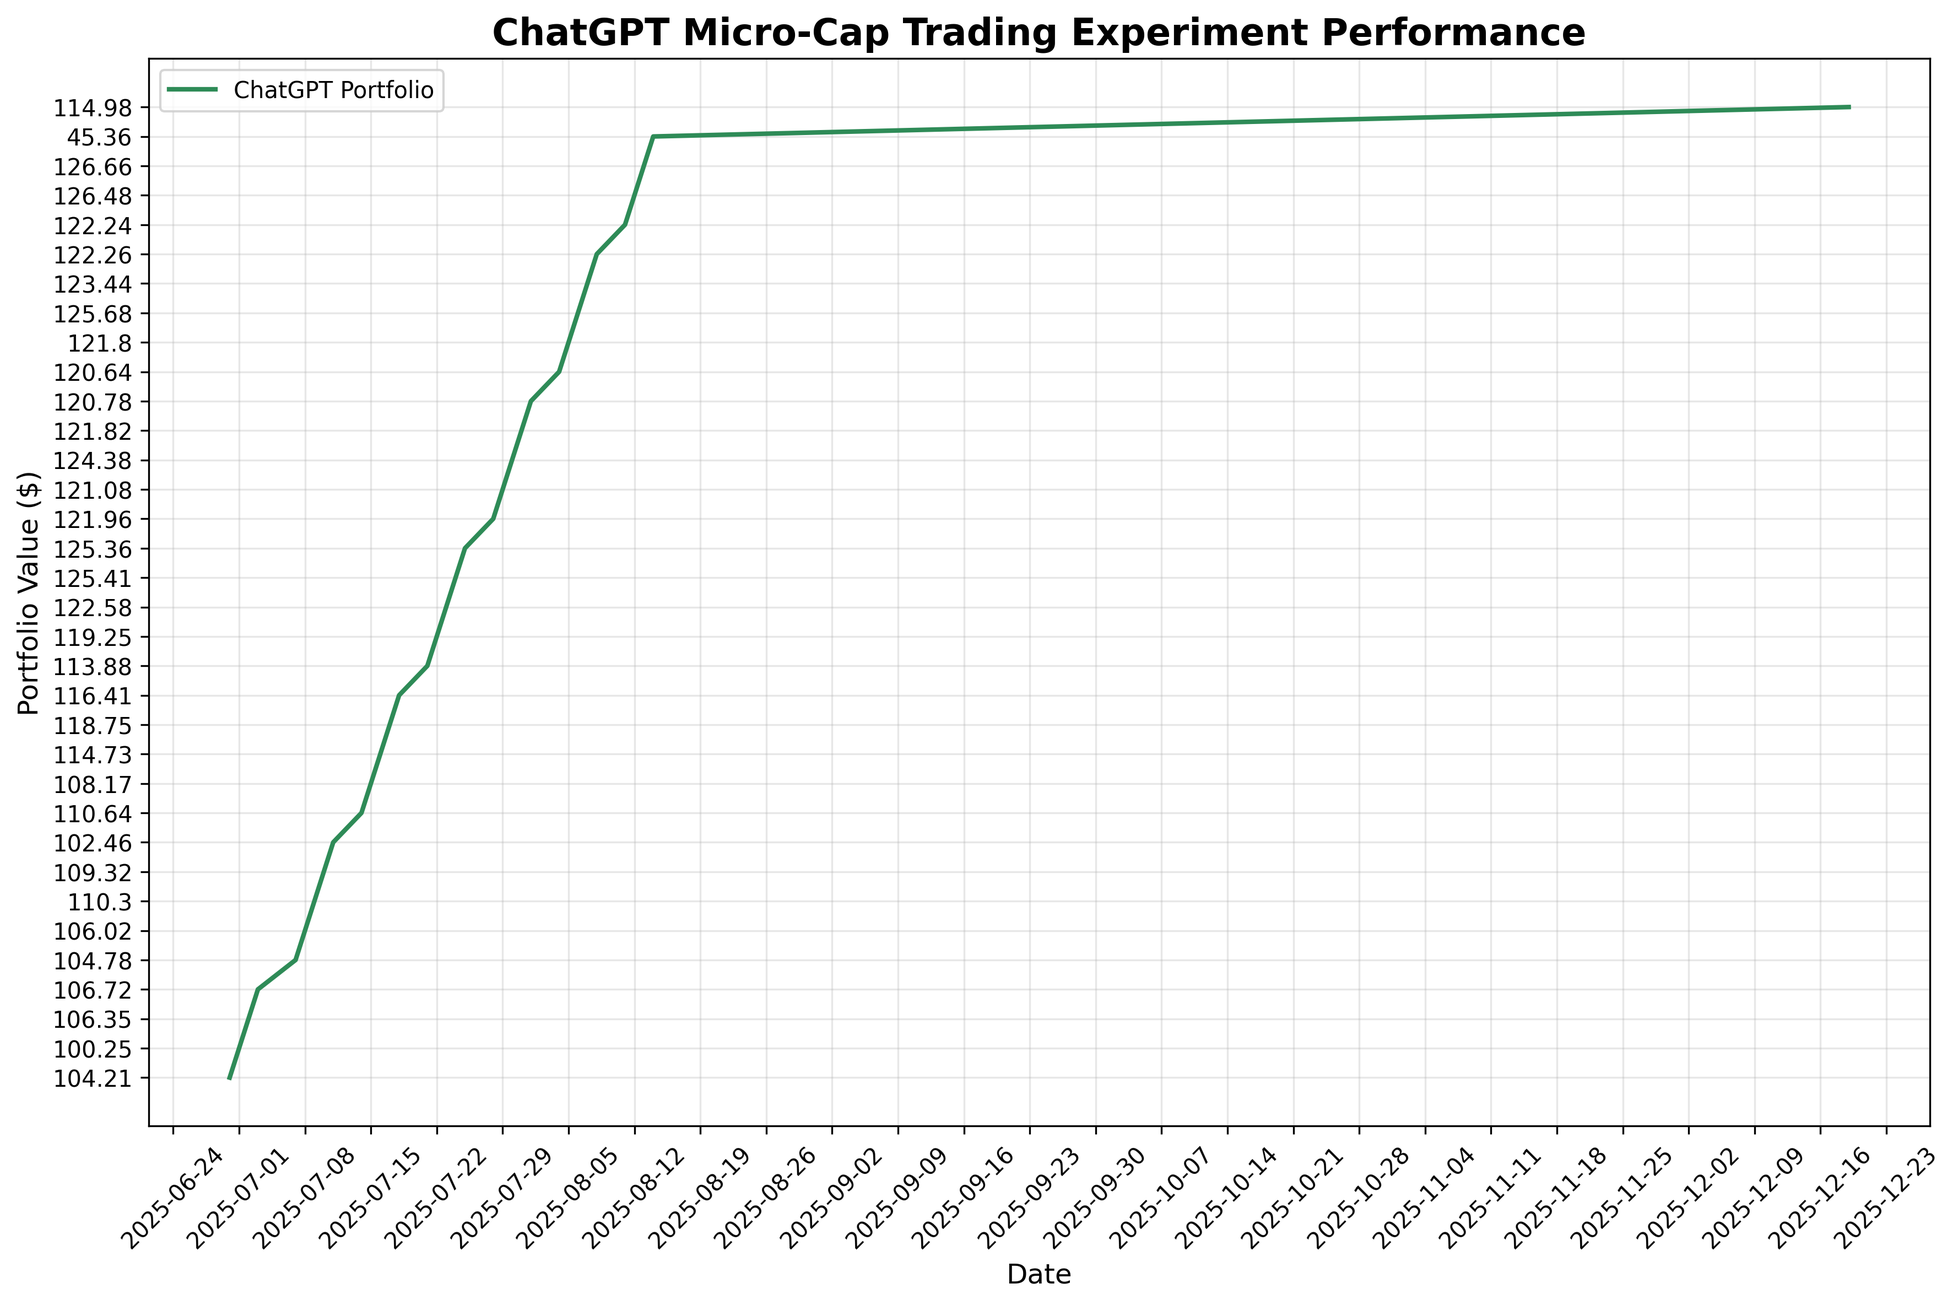
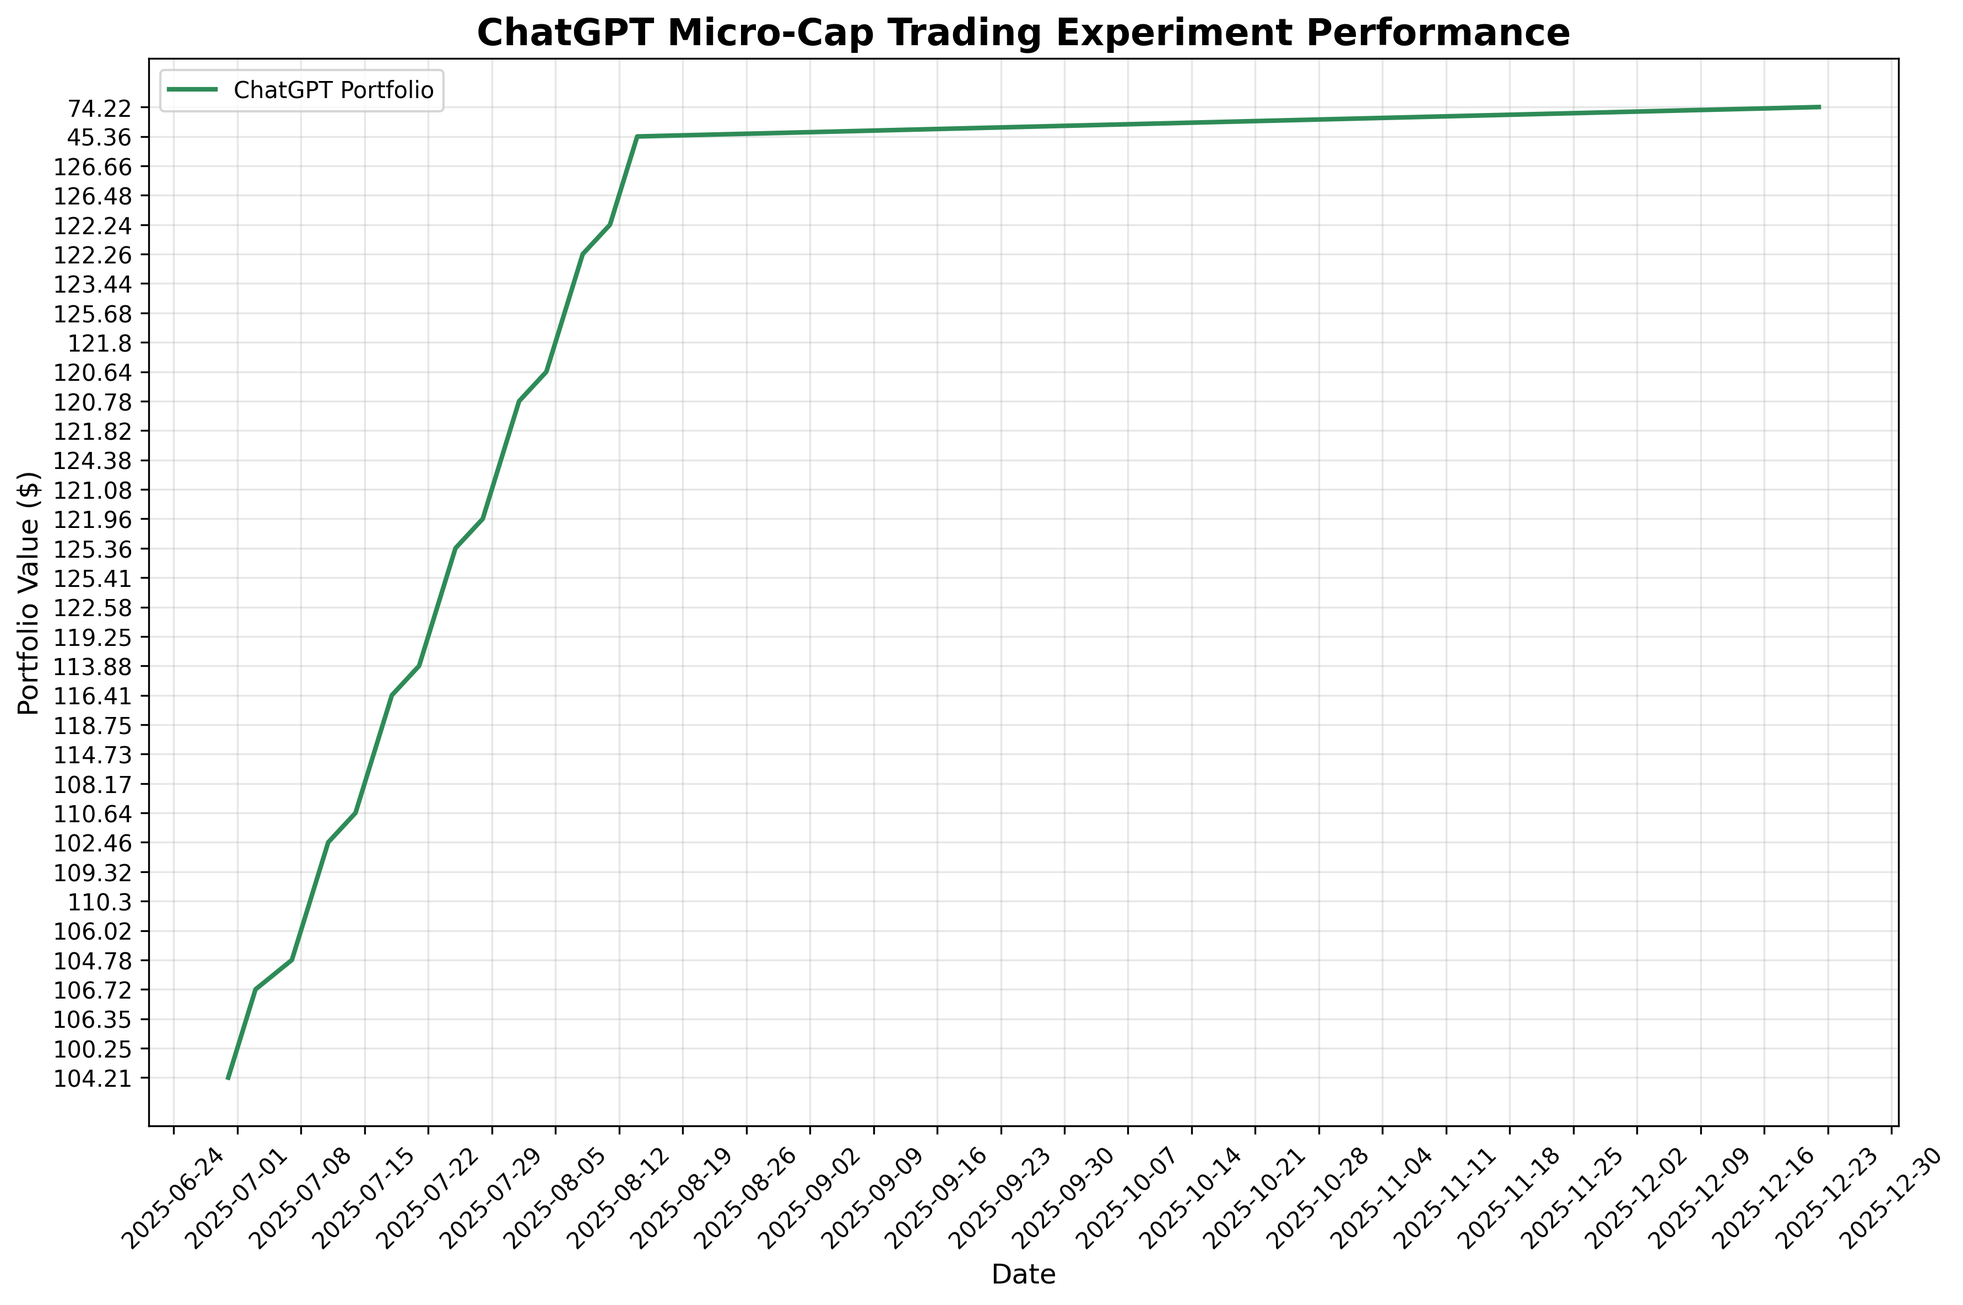
deploy: e15cad030d70fb3fbb51f9df6e22fa70c2f175c0

diff --git a/index.html b/index.html
@@ -105,7 +105,7 @@
                 <div class="stat-label">Total Trades</div>
             </div>
             <div class="stat-card">
-                <div class="stat-value" id="last-updated">2025-12-19</div>
+                <div class="stat-value" id="last-updated">2025-12-22</div>
                 <div class="stat-label">Last Updated</div>
             </div>
         </div>
@@ -160,7 +160,7 @@
     
     <script>
         // Portfolio data
-        const portfolioData = JSON.parse("[{&quot;Date&quot;: &quot;2025-08-11&quot;, &quot;Ticker&quot;: &quot;ABEO&quot;, &quot;Shares&quot;: 4.0, &quot;Buy Price&quot;: 5.77, &quot;Cost Basis&quot;: 23.08, &quot;Stop Loss&quot;: 4.9, &quot;Current Price&quot;: 6.28, &quot;Total Value&quot;: 25.12, &quot;PnL&quot;: 2.04, &quot;Action&quot;: &quot;HOLD&quot;, &quot;Cash Balance&quot;: NaN, &quot;Total Equity&quot;: NaN}, {&quot;Date&quot;: &quot;2025-08-11&quot;, &quot;Ticker&quot;: &quot;ACTU&quot;, &quot;Shares&quot;: 6.0, &quot;Buy Price&quot;: 5.75, &quot;Cost Basis&quot;: 34.5, &quot;Stop Loss&quot;: 4.89, &quot;Current Price&quot;: 8.01, &quot;Total Value&quot;: 48.06, &quot;PnL&quot;: 13.56, &quot;Action&quot;: &quot;HOLD&quot;, &quot;Cash Balance&quot;: NaN, &quot;Total Equity&quot;: NaN}, {&quot;Date&quot;: &quot;2025-08-11&quot;, &quot;Ticker&quot;: &quot;ESPR&quot;, &quot;Shares&quot;: 2.0, &quot;Buy Price&quot;: 1.91, &quot;Cost Basis&quot;: 3.82, &quot;Stop Loss&quot;: 1.6, &quot;Current Price&quot;: 1.85, &quot;Total Value&quot;: 3.7, &quot;PnL&quot;: -0.12, &quot;Action&quot;: &quot;HOLD&quot;, &quot;Cash Balance&quot;: NaN, &quot;Total Equity&quot;: NaN}, {&quot;Date&quot;: &quot;2025-08-11&quot;, &quot;Ticker&quot;: &quot;TOTAL&quot;, &quot;Shares&quot;: NaN, &quot;Buy Price&quot;: NaN, &quot;Cost Basis&quot;: NaN, &quot;Stop Loss&quot;: NaN, &quot;Current Price&quot;: NaN, &quot;Total Value&quot;: 76.88, &quot;PnL&quot;: 15.48, &quot;Action&quot;: NaN, &quot;Cash Balance&quot;: 45.36, &quot;Total Equity&quot;: &quot;122.24&quot;}, {&quot;Date&quot;: &quot;2025-08-12&quot;, &quot;Ticker&quot;: &quot;ABEO&quot;, &quot;Shares&quot;: 4.0, &quot;Buy Price&quot;: 5.77, &quot;Cost Basis&quot;: 23.08, &quot;Stop Loss&quot;: 4.9, &quot;Current Price&quot;: 6.38, &quot;Total Value&quot;: 25.52, &quot;PnL&quot;: 2.44, &quot;Action&quot;: &quot;HOLD&quot;, &quot;Cash Balance&quot;: NaN, &quot;Total Equity&quot;: NaN}, {&quot;Date&quot;: &quot;2025-08-12&quot;, &quot;Ticker&quot;: &quot;ACTU&quot;, &quot;Shares&quot;: 6.0, &quot;Buy Price&quot;: 5.75, &quot;Cost Basis&quot;: 34.5, &quot;Stop Loss&quot;: 4.89, &quot;Current Price&quot;: 8.67, &quot;Total Value&quot;: 52.02, &quot;PnL&quot;: 17.52, &quot;Action&quot;: &quot;HOLD&quot;, &quot;Cash Balance&quot;: NaN, &quot;Total Equity&quot;: NaN}, {&quot;Date&quot;: &quot;2025-08-12&quot;, &quot;Ticker&quot;: &quot;ESPR&quot;, &quot;Shares&quot;: 2.0, &quot;Buy Price&quot;: 1.91, &quot;Cost Basis&quot;: 3.82, &quot;Stop Loss&quot;: 1.6, &quot;Current Price&quot;: 1.79, &quot;Total Value&quot;: 3.58, &quot;PnL&quot;: -0.24, &quot;Action&quot;: &quot;HOLD&quot;, &quot;Cash Balance&quot;: NaN, &quot;Total Equity&quot;: NaN}, {&quot;Date&quot;: &quot;2025-08-12&quot;, &quot;Ticker&quot;: &quot;TOTAL&quot;, &quot;Shares&quot;: NaN, &quot;Buy Price&quot;: NaN, &quot;Cost Basis&quot;: NaN, &quot;Stop Loss&quot;: NaN, &quot;Current Price&quot;: NaN, &quot;Total Value&quot;: 81.12, &quot;PnL&quot;: 19.72, &quot;Action&quot;: NaN, &quot;Cash Balance&quot;: 45.36, &quot;Total Equity&quot;: &quot;126.48&quot;}, {&quot;Date&quot;: &quot;2025-08-13&quot;, &quot;Ticker&quot;: &quot;ABEO&quot;, &quot;Shares&quot;: 4.0, &quot;Buy Price&quot;: 5.77, &quot;Cost Basis&quot;: 23.08, &quot;Stop Loss&quot;: 4.9, &quot;Current Price&quot;: 6.56, &quot;Total Value&quot;: 26.24, &quot;PnL&quot;: 3.16, &quot;Action&quot;: &quot;HOLD&quot;, &quot;Cash Balance&quot;: NaN, &quot;Total Equity&quot;: NaN}, {&quot;Date&quot;: &quot;2025-08-13&quot;, &quot;Ticker&quot;: &quot;ACTU&quot;, &quot;Shares&quot;: 6.0, &quot;Buy Price&quot;: 5.75, &quot;Cost Basis&quot;: 34.5, &quot;Stop Loss&quot;: 4.89, &quot;Current Price&quot;: 8.53, &quot;Total Value&quot;: 51.18, &quot;PnL&quot;: 16.68, &quot;Action&quot;: &quot;HOLD&quot;, &quot;Cash Balance&quot;: NaN, &quot;Total Equity&quot;: NaN}, {&quot;Date&quot;: &quot;2025-08-13&quot;, &quot;Ticker&quot;: &quot;ESPR&quot;, &quot;Shares&quot;: 2.0, &quot;Buy Price&quot;: 1.91, &quot;Cost Basis&quot;: 3.82, &quot;Stop Loss&quot;: 1.6, &quot;Current Price&quot;: 1.94, &quot;Total Value&quot;: 3.88, &quot;PnL&quot;: 0.06, &quot;Action&quot;: &quot;HOLD&quot;, &quot;Cash Balance&quot;: NaN, &quot;Total Equity&quot;: NaN}, {&quot;Date&quot;: &quot;2025-08-13&quot;, &quot;Ticker&quot;: &quot;TOTAL&quot;, &quot;Shares&quot;: NaN, &quot;Buy Price&quot;: NaN, &quot;Cost Basis&quot;: NaN, &quot;Stop Loss&quot;: NaN, &quot;Current Price&quot;: NaN, &quot;Total Value&quot;: 81.3, &quot;PnL&quot;: 19.9, &quot;Action&quot;: NaN, &quot;Cash Balance&quot;: 45.36, &quot;Total Equity&quot;: &quot;126.66&quot;}, {&quot;Date&quot;: &quot;2025-08-14&quot;, &quot;Ticker&quot;: &quot;ABEO&quot;, &quot;Shares&quot;: 4.0, &quot;Buy Price&quot;: 5.77, &quot;Cost Basis&quot;: 23.08, &quot;Stop Loss&quot;: 4.9, &quot;Current Price&quot;: NaN, &quot;Total Value&quot;: NaN, &quot;PnL&quot;: NaN, &quot;Action&quot;: &quot;NO DATA&quot;, &quot;Cash Balance&quot;: NaN, &quot;Total Equity&quot;: NaN}, {&quot;Date&quot;: &quot;2025-08-14&quot;, &quot;Ticker&quot;: &quot;ACTU&quot;, &quot;Shares&quot;: 6.0, &quot;Buy Price&quot;: 5.75, &quot;Cost Basis&quot;: 34.5, &quot;Stop Loss&quot;: 4.89, &quot;Current Price&quot;: NaN, &quot;Total Value&quot;: NaN, &quot;PnL&quot;: NaN, &quot;Action&quot;: &quot;NO DATA&quot;, &quot;Cash Balance&quot;: NaN, &quot;Total Equity&quot;: NaN}, {&quot;Date&quot;: &quot;2025-08-14&quot;, &quot;Ticker&quot;: &quot;ESPR&quot;, &quot;Shares&quot;: 2.0, &quot;Buy Price&quot;: 1.91, &quot;Cost Basis&quot;: 3.82, &quot;Stop Loss&quot;: 1.6, &quot;Current Price&quot;: NaN, &quot;Total Value&quot;: NaN, &quot;PnL&quot;: NaN, &quot;Action&quot;: &quot;NO DATA&quot;, &quot;Cash Balance&quot;: NaN, &quot;Total Equity&quot;: NaN}, {&quot;Date&quot;: &quot;2025-08-14&quot;, &quot;Ticker&quot;: &quot;TOTAL&quot;, &quot;Shares&quot;: NaN, &quot;Buy Price&quot;: NaN, &quot;Cost Basis&quot;: NaN, &quot;Stop Loss&quot;: NaN, &quot;Current Price&quot;: NaN, &quot;Total Value&quot;: 0.0, &quot;PnL&quot;: 0.0, &quot;Action&quot;: NaN, &quot;Cash Balance&quot;: 45.36, &quot;Total Equity&quot;: &quot;45.36&quot;}, {&quot;Date&quot;: &quot;2025-12-19&quot;, &quot;Ticker&quot;: &quot;ABEO&quot;, &quot;Shares&quot;: 4.0, &quot;Buy Price&quot;: 5.77, &quot;Cost Basis&quot;: 23.08, &quot;Stop Loss&quot;: 4.9, &quot;Current Price&quot;: 4.95, &quot;Total Value&quot;: 19.8, &quot;PnL&quot;: -3.28, &quot;Action&quot;: &quot;HOLD&quot;, &quot;Cash Balance&quot;: NaN, &quot;Total Equity&quot;: NaN}, {&quot;Date&quot;: &quot;2025-12-19&quot;, &quot;Ticker&quot;: &quot;ACTU&quot;, &quot;Shares&quot;: 6.0, &quot;Buy Price&quot;: 5.75, &quot;Cost Basis&quot;: 34.5, &quot;Stop Loss&quot;: 4.89, &quot;Current Price&quot;: 7.03, &quot;Total Value&quot;: 42.18, &quot;PnL&quot;: 7.68, &quot;Action&quot;: &quot;HOLD&quot;, &quot;Cash Balance&quot;: NaN, &quot;Total Equity&quot;: NaN}, {&quot;Date&quot;: &quot;2025-12-19&quot;, &quot;Ticker&quot;: &quot;ESPR&quot;, &quot;Shares&quot;: 2.0, &quot;Buy Price&quot;: 1.91, &quot;Cost Basis&quot;: 3.82, &quot;Stop Loss&quot;: 1.6, &quot;Current Price&quot;: 3.82, &quot;Total Value&quot;: 7.64, &quot;PnL&quot;: 3.82, &quot;Action&quot;: &quot;HOLD&quot;, &quot;Cash Balance&quot;: NaN, &quot;Total Equity&quot;: NaN}, {&quot;Date&quot;: &quot;2025-12-19&quot;, &quot;Ticker&quot;: &quot;TOTAL&quot;, &quot;Shares&quot;: NaN, &quot;Buy Price&quot;: NaN, &quot;Cost Basis&quot;: NaN, &quot;Stop Loss&quot;: NaN, &quot;Current Price&quot;: NaN, &quot;Total Value&quot;: 69.62, &quot;PnL&quot;: 8.22, &quot;Action&quot;: NaN, &quot;Cash Balance&quot;: 45.36, &quot;Total Equity&quot;: &quot;114.98&quot;}]");
+        const portfolioData = JSON.parse("[{&quot;Date&quot;: &quot;2025-08-11&quot;, &quot;Ticker&quot;: &quot;ABEO&quot;, &quot;Shares&quot;: 4.0, &quot;Buy Price&quot;: 5.77, &quot;Cost Basis&quot;: 23.08, &quot;Stop Loss&quot;: 4.9, &quot;Current Price&quot;: 6.28, &quot;Total Value&quot;: 25.12, &quot;PnL&quot;: 2.04, &quot;Action&quot;: &quot;HOLD&quot;, &quot;Cash Balance&quot;: NaN, &quot;Total Equity&quot;: NaN}, {&quot;Date&quot;: &quot;2025-08-11&quot;, &quot;Ticker&quot;: &quot;ACTU&quot;, &quot;Shares&quot;: 6.0, &quot;Buy Price&quot;: 5.75, &quot;Cost Basis&quot;: 34.5, &quot;Stop Loss&quot;: 4.89, &quot;Current Price&quot;: 8.01, &quot;Total Value&quot;: 48.06, &quot;PnL&quot;: 13.56, &quot;Action&quot;: &quot;HOLD&quot;, &quot;Cash Balance&quot;: NaN, &quot;Total Equity&quot;: NaN}, {&quot;Date&quot;: &quot;2025-08-11&quot;, &quot;Ticker&quot;: &quot;ESPR&quot;, &quot;Shares&quot;: 2.0, &quot;Buy Price&quot;: 1.91, &quot;Cost Basis&quot;: 3.82, &quot;Stop Loss&quot;: 1.6, &quot;Current Price&quot;: 1.85, &quot;Total Value&quot;: 3.7, &quot;PnL&quot;: -0.12, &quot;Action&quot;: &quot;HOLD&quot;, &quot;Cash Balance&quot;: NaN, &quot;Total Equity&quot;: NaN}, {&quot;Date&quot;: &quot;2025-08-11&quot;, &quot;Ticker&quot;: &quot;TOTAL&quot;, &quot;Shares&quot;: NaN, &quot;Buy Price&quot;: NaN, &quot;Cost Basis&quot;: NaN, &quot;Stop Loss&quot;: NaN, &quot;Current Price&quot;: NaN, &quot;Total Value&quot;: 76.88, &quot;PnL&quot;: 15.48, &quot;Action&quot;: NaN, &quot;Cash Balance&quot;: 45.36, &quot;Total Equity&quot;: &quot;122.24&quot;}, {&quot;Date&quot;: &quot;2025-08-12&quot;, &quot;Ticker&quot;: &quot;ABEO&quot;, &quot;Shares&quot;: 4.0, &quot;Buy Price&quot;: 5.77, &quot;Cost Basis&quot;: 23.08, &quot;Stop Loss&quot;: 4.9, &quot;Current Price&quot;: 6.38, &quot;Total Value&quot;: 25.52, &quot;PnL&quot;: 2.44, &quot;Action&quot;: &quot;HOLD&quot;, &quot;Cash Balance&quot;: NaN, &quot;Total Equity&quot;: NaN}, {&quot;Date&quot;: &quot;2025-08-12&quot;, &quot;Ticker&quot;: &quot;ACTU&quot;, &quot;Shares&quot;: 6.0, &quot;Buy Price&quot;: 5.75, &quot;Cost Basis&quot;: 34.5, &quot;Stop Loss&quot;: 4.89, &quot;Current Price&quot;: 8.67, &quot;Total Value&quot;: 52.02, &quot;PnL&quot;: 17.52, &quot;Action&quot;: &quot;HOLD&quot;, &quot;Cash Balance&quot;: NaN, &quot;Total Equity&quot;: NaN}, {&quot;Date&quot;: &quot;2025-08-12&quot;, &quot;Ticker&quot;: &quot;ESPR&quot;, &quot;Shares&quot;: 2.0, &quot;Buy Price&quot;: 1.91, &quot;Cost Basis&quot;: 3.82, &quot;Stop Loss&quot;: 1.6, &quot;Current Price&quot;: 1.79, &quot;Total Value&quot;: 3.58, &quot;PnL&quot;: -0.24, &quot;Action&quot;: &quot;HOLD&quot;, &quot;Cash Balance&quot;: NaN, &quot;Total Equity&quot;: NaN}, {&quot;Date&quot;: &quot;2025-08-12&quot;, &quot;Ticker&quot;: &quot;TOTAL&quot;, &quot;Shares&quot;: NaN, &quot;Buy Price&quot;: NaN, &quot;Cost Basis&quot;: NaN, &quot;Stop Loss&quot;: NaN, &quot;Current Price&quot;: NaN, &quot;Total Value&quot;: 81.12, &quot;PnL&quot;: 19.72, &quot;Action&quot;: NaN, &quot;Cash Balance&quot;: 45.36, &quot;Total Equity&quot;: &quot;126.48&quot;}, {&quot;Date&quot;: &quot;2025-08-13&quot;, &quot;Ticker&quot;: &quot;ABEO&quot;, &quot;Shares&quot;: 4.0, &quot;Buy Price&quot;: 5.77, &quot;Cost Basis&quot;: 23.08, &quot;Stop Loss&quot;: 4.9, &quot;Current Price&quot;: 6.56, &quot;Total Value&quot;: 26.24, &quot;PnL&quot;: 3.16, &quot;Action&quot;: &quot;HOLD&quot;, &quot;Cash Balance&quot;: NaN, &quot;Total Equity&quot;: NaN}, {&quot;Date&quot;: &quot;2025-08-13&quot;, &quot;Ticker&quot;: &quot;ACTU&quot;, &quot;Shares&quot;: 6.0, &quot;Buy Price&quot;: 5.75, &quot;Cost Basis&quot;: 34.5, &quot;Stop Loss&quot;: 4.89, &quot;Current Price&quot;: 8.53, &quot;Total Value&quot;: 51.18, &quot;PnL&quot;: 16.68, &quot;Action&quot;: &quot;HOLD&quot;, &quot;Cash Balance&quot;: NaN, &quot;Total Equity&quot;: NaN}, {&quot;Date&quot;: &quot;2025-08-13&quot;, &quot;Ticker&quot;: &quot;ESPR&quot;, &quot;Shares&quot;: 2.0, &quot;Buy Price&quot;: 1.91, &quot;Cost Basis&quot;: 3.82, &quot;Stop Loss&quot;: 1.6, &quot;Current Price&quot;: 1.94, &quot;Total Value&quot;: 3.88, &quot;PnL&quot;: 0.06, &quot;Action&quot;: &quot;HOLD&quot;, &quot;Cash Balance&quot;: NaN, &quot;Total Equity&quot;: NaN}, {&quot;Date&quot;: &quot;2025-08-13&quot;, &quot;Ticker&quot;: &quot;TOTAL&quot;, &quot;Shares&quot;: NaN, &quot;Buy Price&quot;: NaN, &quot;Cost Basis&quot;: NaN, &quot;Stop Loss&quot;: NaN, &quot;Current Price&quot;: NaN, &quot;Total Value&quot;: 81.3, &quot;PnL&quot;: 19.9, &quot;Action&quot;: NaN, &quot;Cash Balance&quot;: 45.36, &quot;Total Equity&quot;: &quot;126.66&quot;}, {&quot;Date&quot;: &quot;2025-08-14&quot;, &quot;Ticker&quot;: &quot;ABEO&quot;, &quot;Shares&quot;: 4.0, &quot;Buy Price&quot;: 5.77, &quot;Cost Basis&quot;: 23.08, &quot;Stop Loss&quot;: 4.9, &quot;Current Price&quot;: NaN, &quot;Total Value&quot;: NaN, &quot;PnL&quot;: NaN, &quot;Action&quot;: &quot;NO DATA&quot;, &quot;Cash Balance&quot;: NaN, &quot;Total Equity&quot;: NaN}, {&quot;Date&quot;: &quot;2025-08-14&quot;, &quot;Ticker&quot;: &quot;ACTU&quot;, &quot;Shares&quot;: 6.0, &quot;Buy Price&quot;: 5.75, &quot;Cost Basis&quot;: 34.5, &quot;Stop Loss&quot;: 4.89, &quot;Current Price&quot;: NaN, &quot;Total Value&quot;: NaN, &quot;PnL&quot;: NaN, &quot;Action&quot;: &quot;NO DATA&quot;, &quot;Cash Balance&quot;: NaN, &quot;Total Equity&quot;: NaN}, {&quot;Date&quot;: &quot;2025-08-14&quot;, &quot;Ticker&quot;: &quot;ESPR&quot;, &quot;Shares&quot;: 2.0, &quot;Buy Price&quot;: 1.91, &quot;Cost Basis&quot;: 3.82, &quot;Stop Loss&quot;: 1.6, &quot;Current Price&quot;: NaN, &quot;Total Value&quot;: NaN, &quot;PnL&quot;: NaN, &quot;Action&quot;: &quot;NO DATA&quot;, &quot;Cash Balance&quot;: NaN, &quot;Total Equity&quot;: NaN}, {&quot;Date&quot;: &quot;2025-08-14&quot;, &quot;Ticker&quot;: &quot;TOTAL&quot;, &quot;Shares&quot;: NaN, &quot;Buy Price&quot;: NaN, &quot;Cost Basis&quot;: NaN, &quot;Stop Loss&quot;: NaN, &quot;Current Price&quot;: NaN, &quot;Total Value&quot;: 0.0, &quot;PnL&quot;: 0.0, &quot;Action&quot;: NaN, &quot;Cash Balance&quot;: 45.36, &quot;Total Equity&quot;: &quot;45.36&quot;}, {&quot;Date&quot;: &quot;2025-12-22&quot;, &quot;Ticker&quot;: &quot;ABEO&quot;, &quot;Shares&quot;: 4.0, &quot;Buy Price&quot;: 5.77, &quot;Cost Basis&quot;: 23.08, &quot;Stop Loss&quot;: 4.9, &quot;Current Price&quot;: 5.21, &quot;Total Value&quot;: 20.84, &quot;PnL&quot;: -2.24, &quot;Action&quot;: &quot;HOLD&quot;, &quot;Cash Balance&quot;: NaN, &quot;Total Equity&quot;: NaN}, {&quot;Date&quot;: &quot;2025-12-22&quot;, &quot;Ticker&quot;: &quot;ACTU&quot;, &quot;Shares&quot;: 6.0, &quot;Buy Price&quot;: 5.75, &quot;Cost Basis&quot;: 34.5, &quot;Stop Loss&quot;: 4.89, &quot;Current Price&quot;: NaN, &quot;Total Value&quot;: NaN, &quot;PnL&quot;: NaN, &quot;Action&quot;: &quot;NO DATA&quot;, &quot;Cash Balance&quot;: NaN, &quot;Total Equity&quot;: NaN}, {&quot;Date&quot;: &quot;2025-12-22&quot;, &quot;Ticker&quot;: &quot;ESPR&quot;, &quot;Shares&quot;: 2.0, &quot;Buy Price&quot;: 1.91, &quot;Cost Basis&quot;: 3.82, &quot;Stop Loss&quot;: 1.6, &quot;Current Price&quot;: 4.01, &quot;Total Value&quot;: 8.02, &quot;PnL&quot;: 4.2, &quot;Action&quot;: &quot;HOLD&quot;, &quot;Cash Balance&quot;: NaN, &quot;Total Equity&quot;: NaN}, {&quot;Date&quot;: &quot;2025-12-22&quot;, &quot;Ticker&quot;: &quot;TOTAL&quot;, &quot;Shares&quot;: NaN, &quot;Buy Price&quot;: NaN, &quot;Cost Basis&quot;: NaN, &quot;Stop Loss&quot;: NaN, &quot;Current Price&quot;: NaN, &quot;Total Value&quot;: 28.86, &quot;PnL&quot;: 1.96, &quot;Action&quot;: NaN, &quot;Cash Balance&quot;: 45.36, &quot;Total Equity&quot;: &quot;74.22&quot;}]");
         const tradeData = JSON.parse("[{&quot;Date&quot;: &quot;2025-07-07&quot;, &quot;Ticker&quot;: &quot;CSAI&quot;, &quot;Shares Bought&quot;: NaN, &quot;Buy Price&quot;: NaN, &quot;Cost Basis&quot;: 1.9, &quot;PnL&quot;: 5.7, &quot;Reason&quot;: &quot;MANUAL SELL - Rotated into AZTR&quot;, &quot;Shares Sold&quot;: 15.0, &quot;Sell Price&quot;: 2.28}, {&quot;Date&quot;: &quot;2025-07-08&quot;, &quot;Ticker&quot;: &quot;IINN&quot;, &quot;Shares Bought&quot;: 20.0, &quot;Buy Price&quot;: 1.5, &quot;Cost Basis&quot;: 30.0, &quot;PnL&quot;: 0.0, &quot;Reason&quot;: &quot;MANUAL BUY - New position&quot;, &quot;Shares Sold&quot;: NaN, &quot;Sell Price&quot;: NaN}, {&quot;Date&quot;: &quot;2025-07-21&quot;, &quot;Ticker&quot;: &quot;CADL&quot;, &quot;Shares Bought&quot;: NaN, &quot;Buy Price&quot;: NaN, &quot;Cost Basis&quot;: 25.2, &quot;PnL&quot;: 8.5, &quot;Reason&quot;: &quot;MANUAL SELL - GAIN CAPITAL FOR ACTU&quot;, &quot;Shares Sold&quot;: 5.0, &quot;Sell Price&quot;: 6.59}, {&quot;Date&quot;: &quot;2025-07-21&quot;, &quot;Ticker&quot;: &quot;ACTU&quot;, &quot;Shares Bought&quot;: 6.0, &quot;Buy Price&quot;: 5.75, &quot;Cost Basis&quot;: 34.5, &quot;PnL&quot;: 0.0, &quot;Reason&quot;: &quot;MANUAL BUY - New position&quot;, &quot;Shares Sold&quot;: NaN, &quot;Sell Price&quot;: NaN}, {&quot;Date&quot;: &quot;2025-07-28&quot;, &quot;Ticker&quot;: &quot;IINN&quot;, &quot;Shares Bought&quot;: NaN, &quot;Buy Price&quot;: NaN, &quot;Cost Basis&quot;: 9.0, &quot;PnL&quot;: -0.5400000000000009, &quot;Reason&quot;: &quot;MANUAL SELL - POSITION REDUCTION&quot;, &quot;Shares Sold&quot;: 6.0, &quot;Sell Price&quot;: 1.41}, {&quot;Date&quot;: &quot;2025-07-29&quot;, &quot;Ticker&quot;: &quot;AZTR&quot;, &quot;Shares Bought&quot;: NaN, &quot;Buy Price&quot;: NaN, &quot;Cost Basis&quot;: 13.75, &quot;PnL&quot;: -2.75, &quot;Reason&quot;: &quot;MANUAL SELL - DILUTION RISK&quot;, &quot;Shares Sold&quot;: 55.0, &quot;Sell Price&quot;: 0.2}, {&quot;Date&quot;: &quot;2025-08-01&quot;, &quot;Ticker&quot;: &quot;IINN&quot;, &quot;Shares Bought&quot;: 2.0, &quot;Buy Price&quot;: 1.74, &quot;Cost Basis&quot;: 3.48, &quot;PnL&quot;: 0.0, &quot;Reason&quot;: &quot;MANUAL BUY - New position&quot;, &quot;Shares Sold&quot;: NaN, &quot;Sell Price&quot;: NaN}, {&quot;Date&quot;: &quot;2025-08-01&quot;, &quot;Ticker&quot;: &quot;ABEO&quot;, &quot;Shares Bought&quot;: NaN, &quot;Buy Price&quot;: NaN, &quot;Cost Basis&quot;: 11.54, &quot;PnL&quot;: 1.200000000000001, &quot;Reason&quot;: &quot;MANUAL SELL - TRIM AFTER SUPPORT LOSS&quot;, &quot;Shares Sold&quot;: 2.0, &quot;Sell Price&quot;: 6.37}, {&quot;Date&quot;: &quot;2025-08-07&quot;, &quot;Ticker&quot;: &quot;ESPR&quot;, &quot;Shares Bought&quot;: 2.0, &quot;Buy Price&quot;: 1.91, &quot;Cost Basis&quot;: 3.82, &quot;PnL&quot;: 0.0, &quot;Reason&quot;: &quot;MANUAL BUY - New position&quot;, &quot;Shares Sold&quot;: NaN, &quot;Sell Price&quot;: NaN}, {&quot;Date&quot;: &quot;2025-08-08&quot;, &quot;Ticker&quot;: &quot;IINN&quot;, &quot;Shares Bought&quot;: NaN, &quot;Buy Price&quot;: NaN, &quot;Cost Basis&quot;: 1.5, &quot;PnL&quot;: -6.4, &quot;Reason&quot;: &quot;AUTOMATED SELL - STOPLOSS TRIGGERED&quot;, &quot;Shares Sold&quot;: 16.0, &quot;Sell Price&quot;: 1.1}]");
         
         // Update total equity
